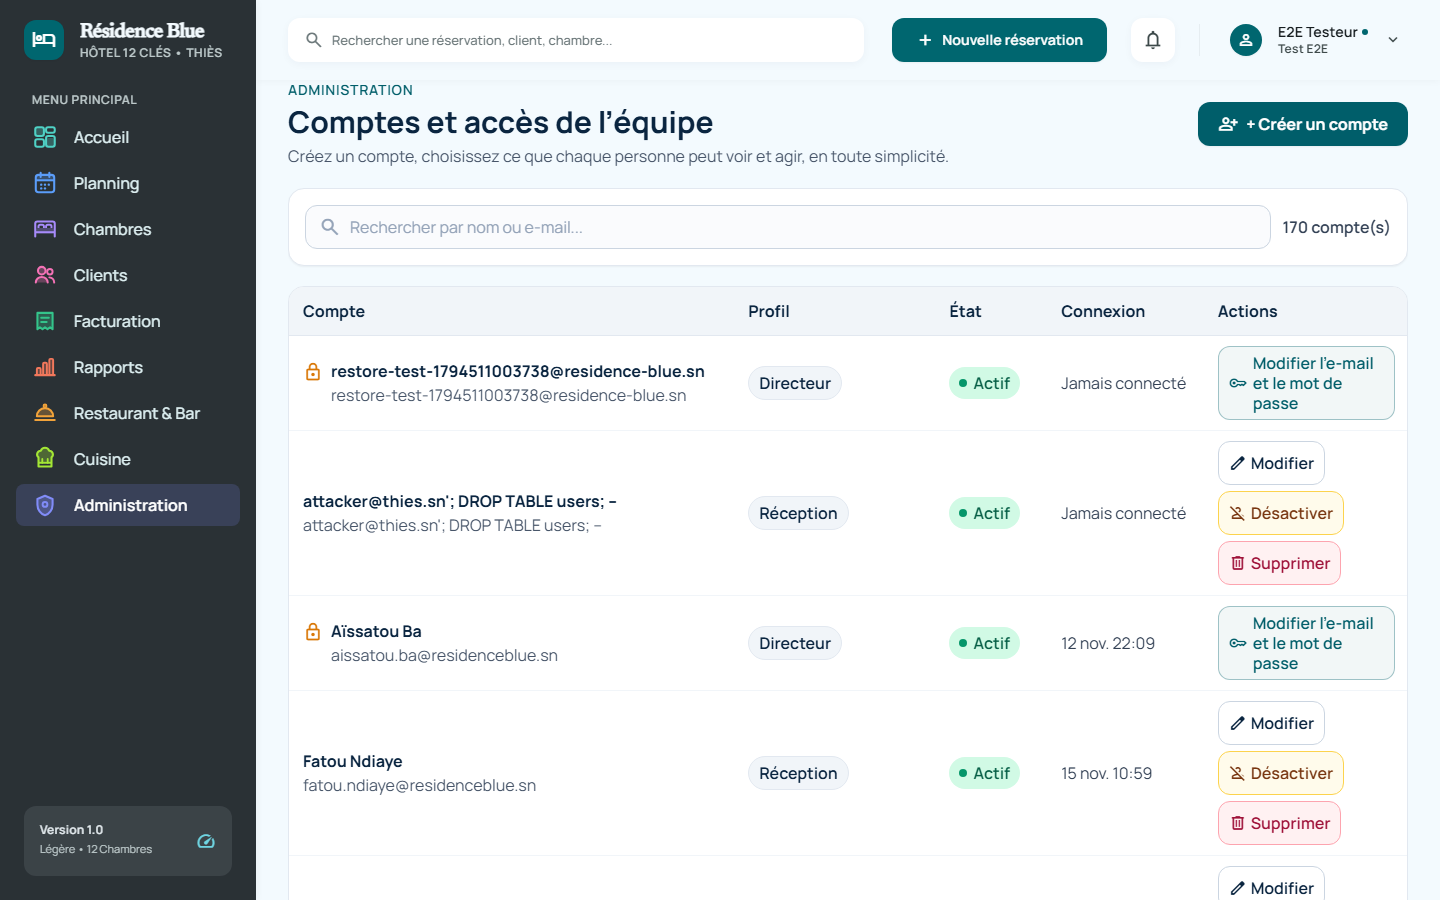
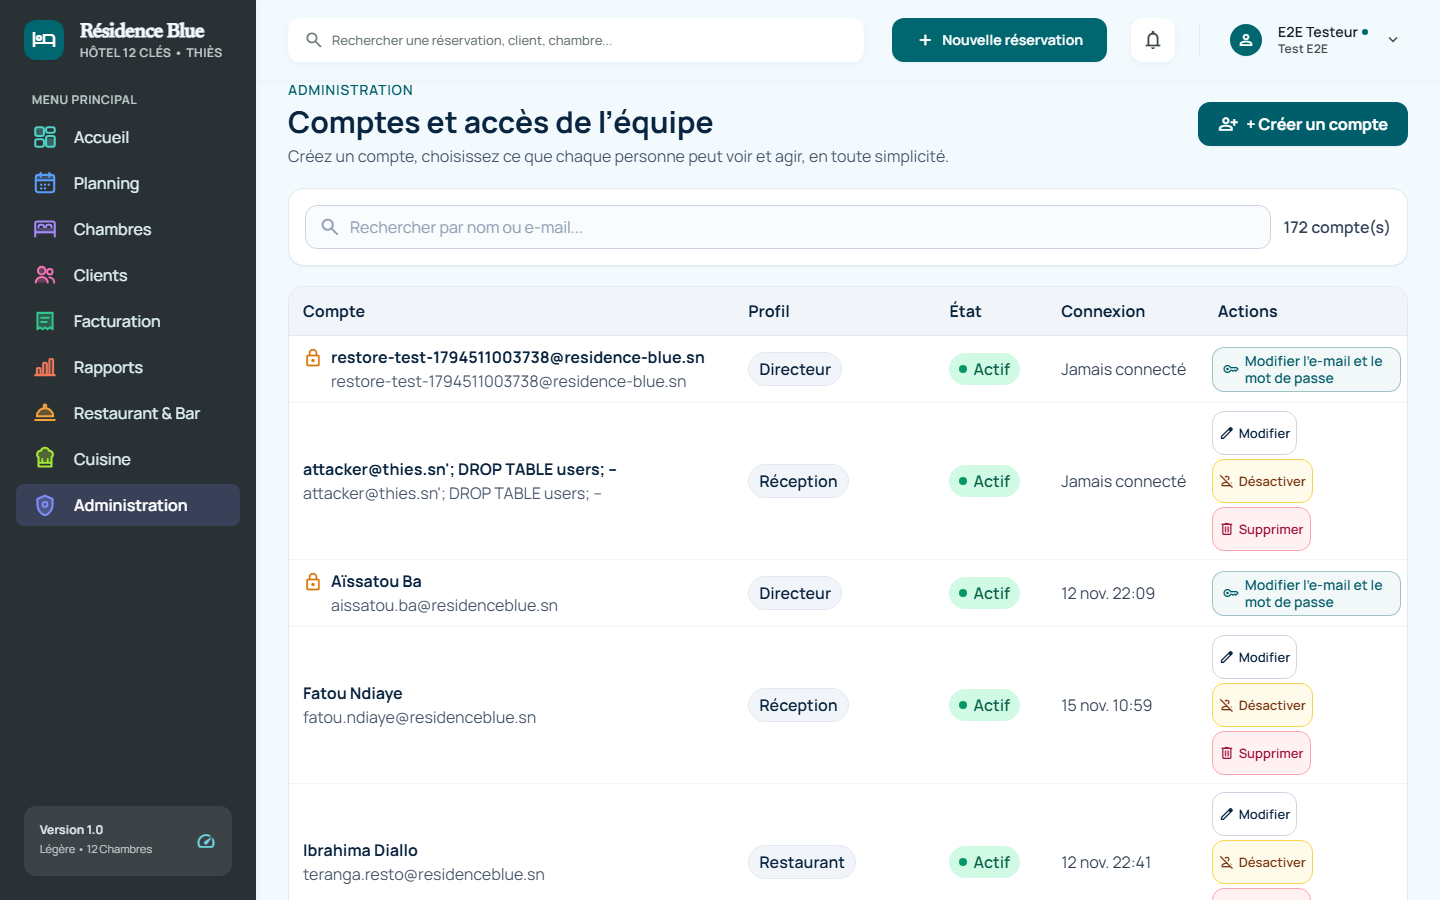
fix: compacter les boutons d'action du tableau /administration/comptes
Resserre l'espacement horizontal des boutons et ajuste la hauteur de la
zone défilante du tableau des comptes afin de regrouper « Modifier »,
« Désactiver/Réactiver » et « Supprimer » sur deux lignes dans la colonne
Actions (18 %) plutôt que trois, tout en conservant une cible tactile
de 44 px minimum, l'absence de débordement horizontal et environ dix
lignes visibles.

diff --git a/apps/web/src/app/features/administration/administration-comptes-page.component.ts b/apps/web/src/app/features/administration/administration-comptes-page.component.ts
@@ -40,8 +40,8 @@ import { AdministrationService, ManagedAccount } from './administration.service'
       }
 
       .accounts-scroll-box {
-        height: 760px;
-        max-height: 760px;
+        height: 820px;
+        max-height: 820px;
         overflow-y: scroll;
         overflow-x: hidden;
         scrollbar-gutter: stable;
@@ -284,25 +284,25 @@ import { AdministrationService, ManagedAccount } from './administration.service'
                         {{ formatShortLastLogin(acc.lastLoginAt) }}
                       </td>
 
-                      <!-- 5. Actions (18%) : 3 boutons visibles min-h 44px, icône + mot, alignés à gauche -->
-                      <td class="px-3 py-2.5 align-middle">
-                        <div class="flex flex-wrap items-center justify-start gap-1.5">
+                      <!-- 5. Actions (18%) : 3 boutons visibles min-h 44px, icône + mot, max 2 lignes alignées à gauche -->
+                      <td class="px-1.5 py-2 align-middle">
+                        <div class="flex flex-wrap items-center justify-start gap-1">
                           @if (acc.isProtectedDirector) {
                             <a
                               routerLink="/administration/directeur"
                               data-testid="btn-edit-director-credentials"
-                              class="inline-flex min-h-[44px] max-w-full items-center gap-1.5 rounded-xl border border-[#005e6a]/35 bg-[#005e6a]/5 px-2.5 py-1.5 text-base font-semibold text-[#005e6a] leading-tight hover:bg-[#005e6a]/10 focus:outline-none focus:ring-2 focus:ring-[#005e6a]"
+                              class="inline-flex min-h-[44px] max-w-full items-center gap-1.5 rounded-xl border border-[#005e6a]/35 bg-[#005e6a]/5 px-2.5 py-1 text-[14px] font-semibold text-[#005e6a] leading-tight hover:bg-[#005e6a]/10 focus:outline-none focus:ring-2 focus:ring-[#005e6a]"
                             >
-                              <span class="material-symbols-outlined text-[18px] shrink-0" aria-hidden="true">key</span>
+                              <span class="material-symbols-outlined text-[16px] shrink-0" aria-hidden="true">key</span>
                               <span class="break-words">Modifier l’e-mail et le mot de passe</span>
                             </a>
                           } @else {
                             <a
                               [routerLink]="['/administration/comptes', acc.id]"
                               [attr.data-testid]="'btn-edit-' + acc.id"
-                              class="inline-flex min-h-[44px] items-center gap-1 rounded-xl border border-slate-300 bg-white px-2.5 py-1.5 text-base font-semibold text-[#0A2540] whitespace-nowrap hover:bg-slate-50 focus:outline-none focus:ring-2 focus:ring-[#005e6a]"
+                              class="inline-flex min-h-[44px] items-center gap-1 rounded-xl border border-slate-300 bg-white px-1.5 py-1 text-[13px] font-semibold text-[#0A2540] whitespace-nowrap hover:bg-slate-50 focus:outline-none focus:ring-2 focus:ring-[#005e6a]"
                             >
-                              <span class="material-symbols-outlined text-[18px] shrink-0" aria-hidden="true">edit</span>
+                              <span class="material-symbols-outlined text-[16px] shrink-0" aria-hidden="true">edit</span>
                               <span>Modifier</span>
                             </a>
                             @if (acc.isActive) {
@@ -310,9 +310,9 @@ import { AdministrationService, ManagedAccount } from './administration.service'
                                 type="button"
                                 (click)="openDeactivateModal(acc)"
                                 [attr.data-testid]="'btn-deactivate-' + acc.id"
-                                class="inline-flex min-h-[44px] items-center gap-1 rounded-xl border border-amber-300 bg-amber-50 px-2.5 py-1.5 text-base font-semibold text-amber-900 whitespace-nowrap hover:bg-amber-100 focus:outline-none focus:ring-2 focus:ring-amber-600"
+                                class="inline-flex min-h-[44px] items-center gap-1 rounded-xl border border-amber-300 bg-amber-50 px-1.5 py-1 text-[13px] font-semibold text-amber-900 whitespace-nowrap hover:bg-amber-100 focus:outline-none focus:ring-2 focus:ring-amber-600"
                               >
-                                <span class="material-symbols-outlined text-[18px] shrink-0" aria-hidden="true">person_off</span>
+                                <span class="material-symbols-outlined text-[16px] shrink-0" aria-hidden="true">person_off</span>
                                 <span>Désactiver</span>
                               </button>
                             } @else {
@@ -320,9 +320,9 @@ import { AdministrationService, ManagedAccount } from './administration.service'
                                 type="button"
                                 (click)="reactivateAccount(acc)"
                                 [attr.data-testid]="'btn-reactivate-' + acc.id"
-                                class="inline-flex min-h-[44px] items-center gap-1 rounded-xl border border-emerald-300 bg-emerald-50 px-2.5 py-1.5 text-base font-semibold text-emerald-900 whitespace-nowrap hover:bg-emerald-100 focus:outline-none focus:ring-2 focus:ring-emerald-600"
+                                class="inline-flex min-h-[44px] items-center gap-1 rounded-xl border border-emerald-300 bg-emerald-50 px-1.5 py-1 text-[13px] font-semibold text-emerald-900 whitespace-nowrap hover:bg-emerald-100 focus:outline-none focus:ring-2 focus:ring-emerald-600"
                               >
-                                <span class="material-symbols-outlined text-[18px] shrink-0" aria-hidden="true">person_check</span>
+                                <span class="material-symbols-outlined text-[16px] shrink-0" aria-hidden="true">person_check</span>
                                 <span>Réactiver</span>
                               </button>
                             }
@@ -330,9 +330,9 @@ import { AdministrationService, ManagedAccount } from './administration.service'
                               type="button"
                               (click)="openDeleteModal(acc)"
                               [attr.data-testid]="'btn-delete-' + acc.id"
-                              class="inline-flex min-h-[44px] items-center gap-1 rounded-xl border border-rose-300 bg-rose-50 px-2.5 py-1.5 text-base font-semibold text-rose-800 whitespace-nowrap hover:bg-rose-100 focus:outline-none focus:ring-2 focus:ring-rose-600"
+                              class="inline-flex min-h-[44px] items-center gap-1 rounded-xl border border-rose-300 bg-rose-50 px-1.5 py-1 text-[13px] font-semibold text-rose-800 whitespace-nowrap hover:bg-rose-100 focus:outline-none focus:ring-2 focus:ring-rose-600"
                             >
-                              <span class="material-symbols-outlined text-[18px] shrink-0" aria-hidden="true">delete</span>
+                              <span class="material-symbols-outlined text-[16px] shrink-0" aria-hidden="true">delete</span>
                               <span>Supprimer</span>
                             </button>
                           }
